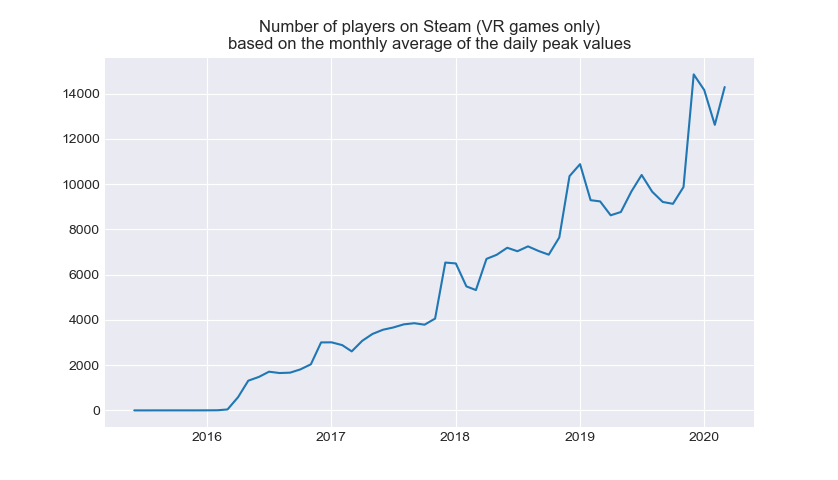
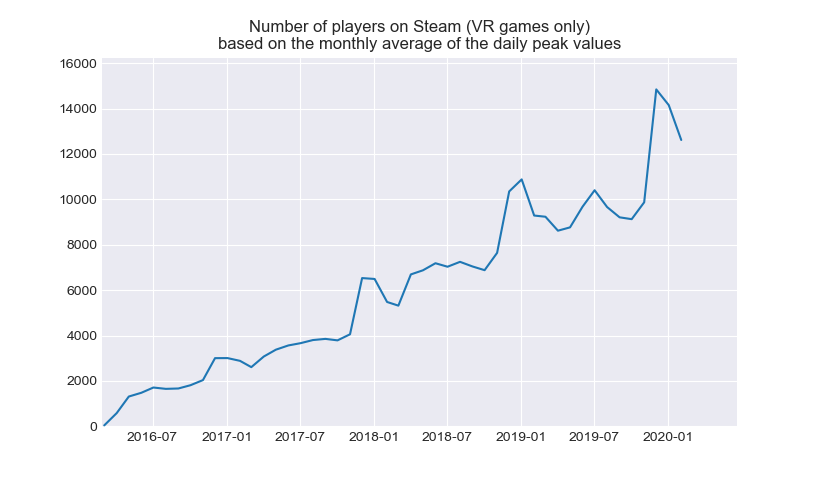
update

diff --git a/create_charts.py b/create_charts.py
@@ -25,7 +25,6 @@ def bar_diagram(data):
     style.use('seaborn-dark')
     fig, ax = plt.subplots()
     for item in data:
-        print(item[0])
         top10games.append(item[0])
         top10players.append(item[1])
     y_pos = np.arange(len(top10games))
@@ -34,7 +33,7 @@ def bar_diagram(data):
     ax.set_yticklabels(top10games)
     ax.invert_yaxis()  # labels von oben nach unten
     # ax.set_xlabel('')
-    ax.set_title('Top 10 number of simultaneous players on Steam')
+    ax.set_title('Top 10 VR games with the highest daily peak reached on Steam')
     plt.grid(True)
 
 

diff --git a/sqlite_query.py b/sqlite_query.py
@@ -51,7 +51,7 @@ def peak_players_online(conn):
     c.execute('''
     select Date, avg(Number) as maxnumber from (
     SELECT strftime('%Y-%m', date) as Date, sum(players) as Number FROM vr_players
-    WHERE date != '2019-07-24'
+    WHERE date != '2019-07-24' and date > '2016-03-01'
     GROUP by date)
     GROUP by Date
     Order by Date
